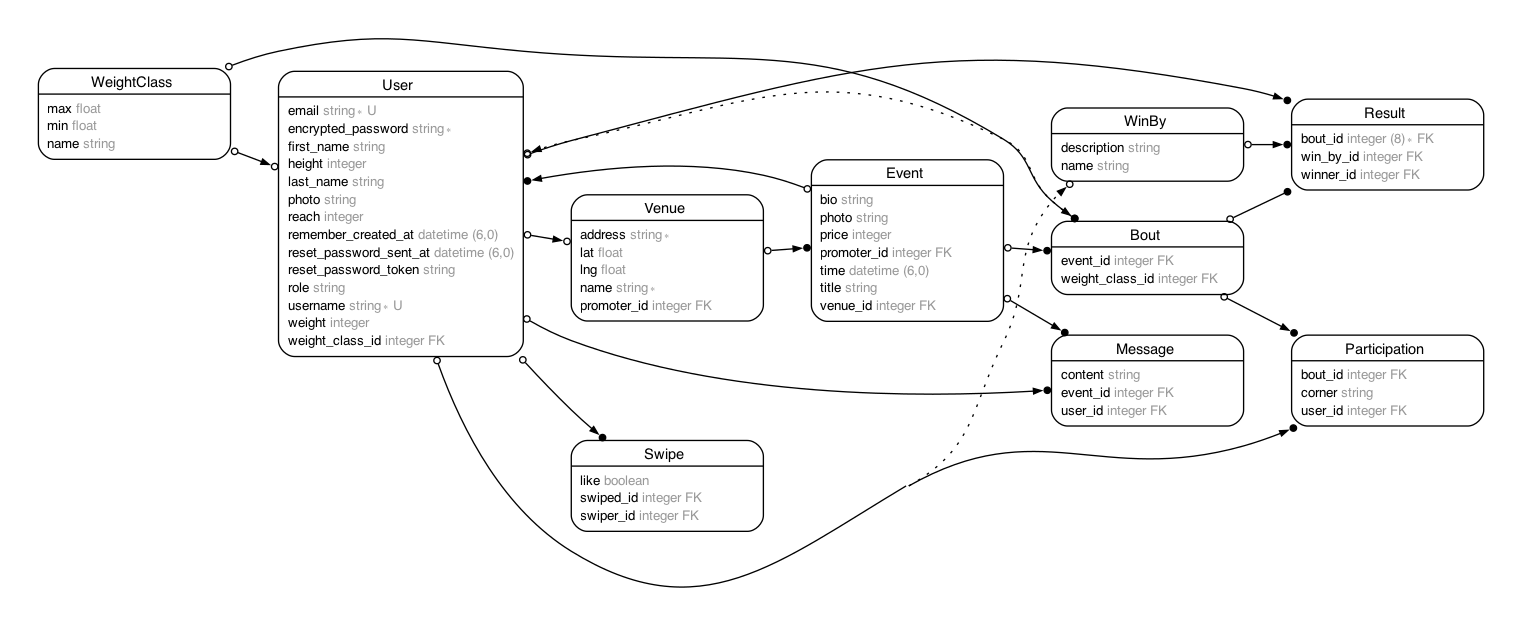
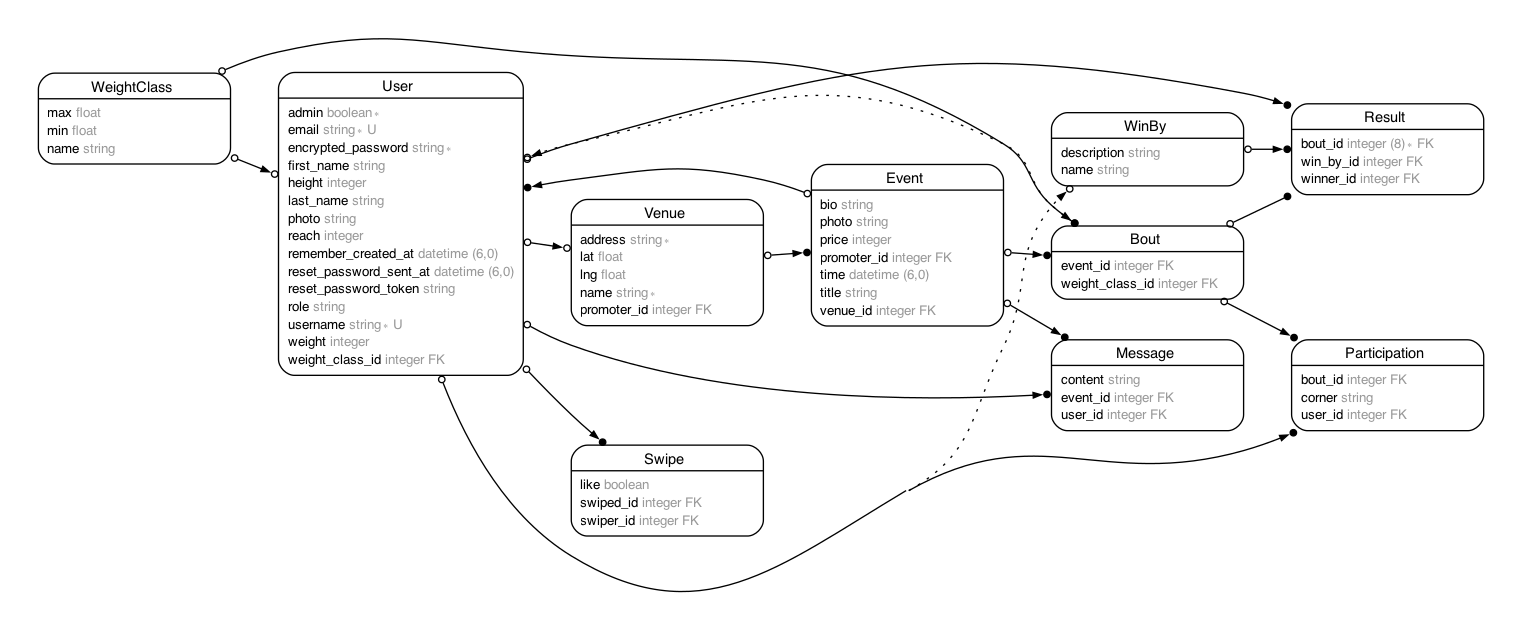
Add admin to users

diff --git a/db/schema.rb b/db/schema.rb
@@ -10,7 +10,7 @@
 #
 # It's strongly recommended that you check this file into your version control system.
 
-ActiveRecord::Schema[7.0].define(version: 2023_11_27_003138) do
+ActiveRecord::Schema[7.0].define(version: 2023_12_02_211552) do
   # These are extensions that must be enabled in order to support this database
   enable_extension "plpgsql"
 
@@ -83,6 +83,7 @@ ActiveRecord::Schema[7.0].define(version: 2023_11_27_003138) do
     t.string "username"
     t.string "role"
     t.integer "weight_class_id"
+    t.boolean "admin", default: false, null: false
     t.index ["email"], name: "index_users_on_email", unique: true
     t.index ["reset_password_token"], name: "index_users_on_reset_password_token", unique: true
   end

diff --git a/app/models/user.rb b/app/models/user.rb
@@ -3,6 +3,7 @@
 # Table name: users
 #
 #  id                     :bigint           not null, primary key
+#  admin                  :boolean          default(FALSE), not null
 #  email                  :string           default(""), not null
 #  encrypted_password     :string           default(""), not null
 #  first_name             :string

diff --git a/db/migrate/20231202211552_add_admin_to_user.rb b/db/migrate/20231202211552_add_admin_to_user.rb
@@ -1,0 +1,5 @@
+class AddAdminToUser < ActiveRecord::Migration[7.0]
+  def change
+    add_column :users, :admin, :boolean, default: false, null: false
+  end
+end
